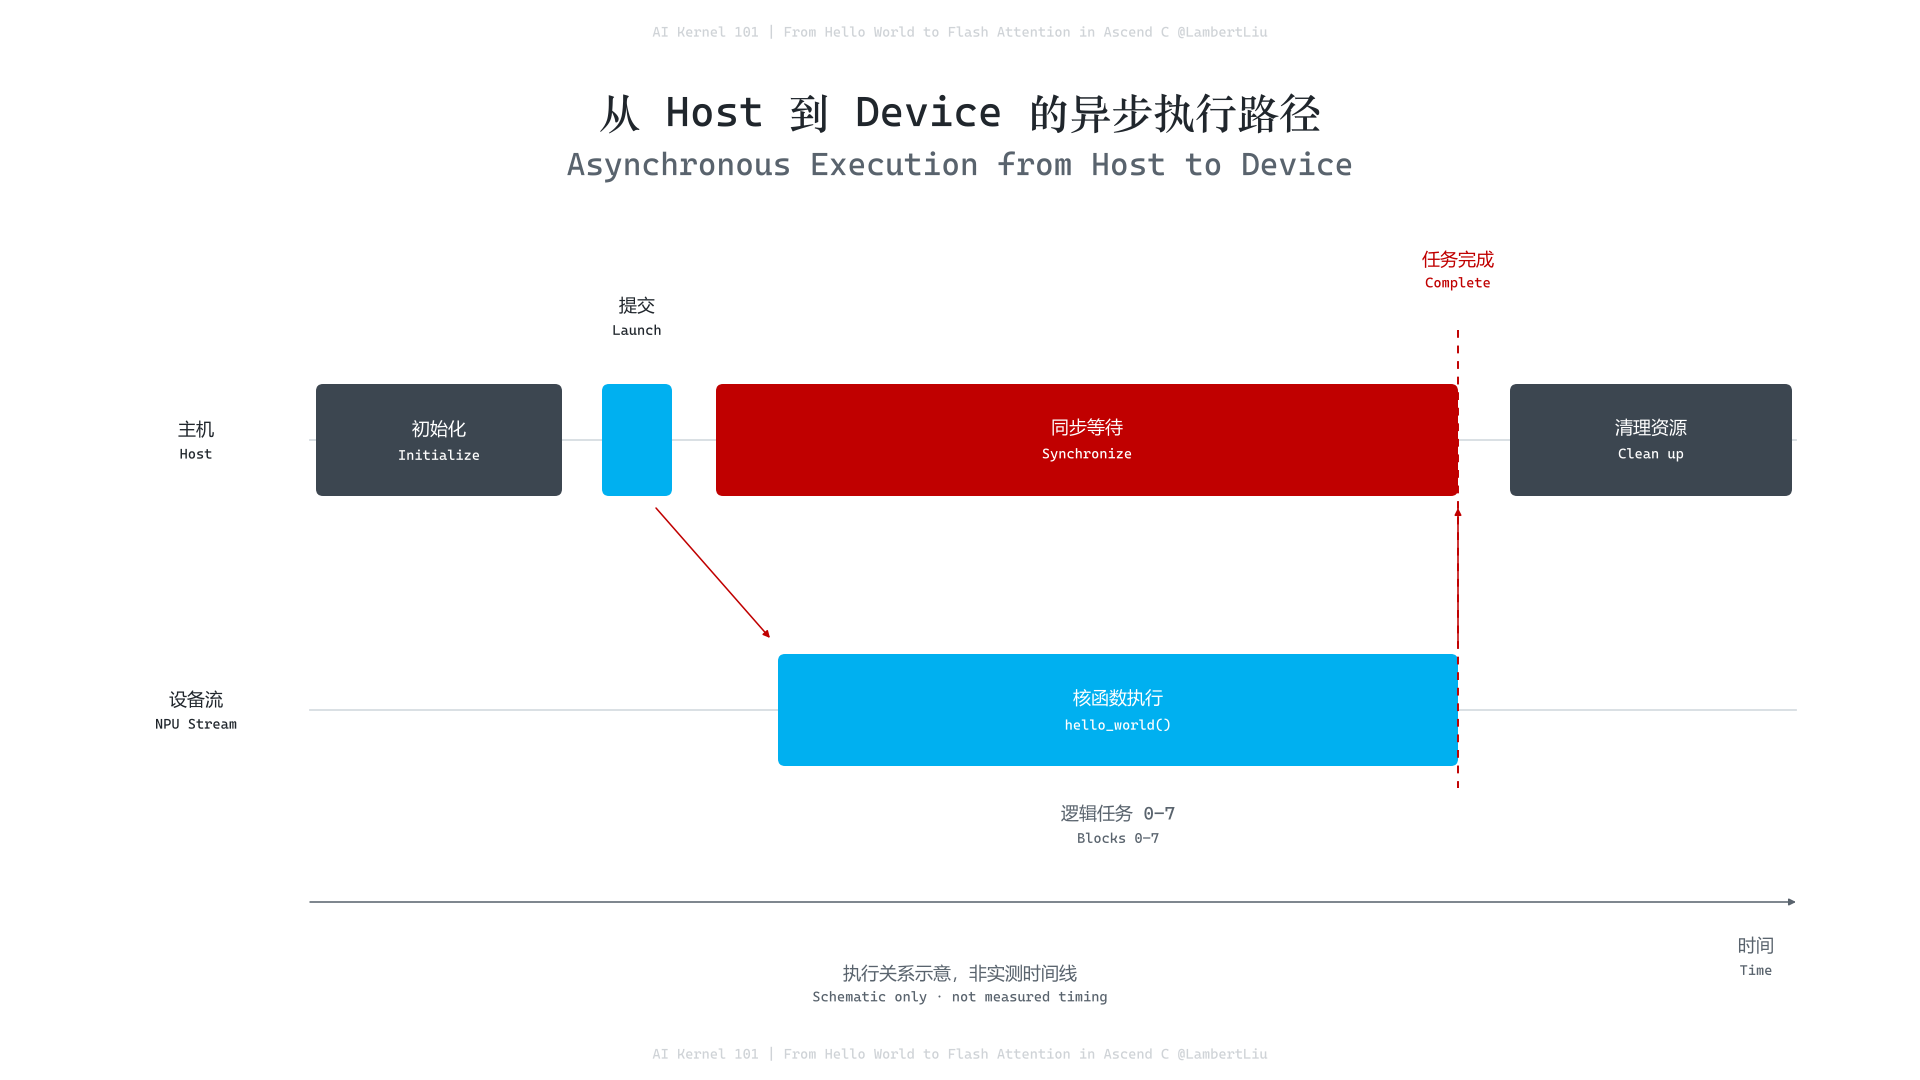
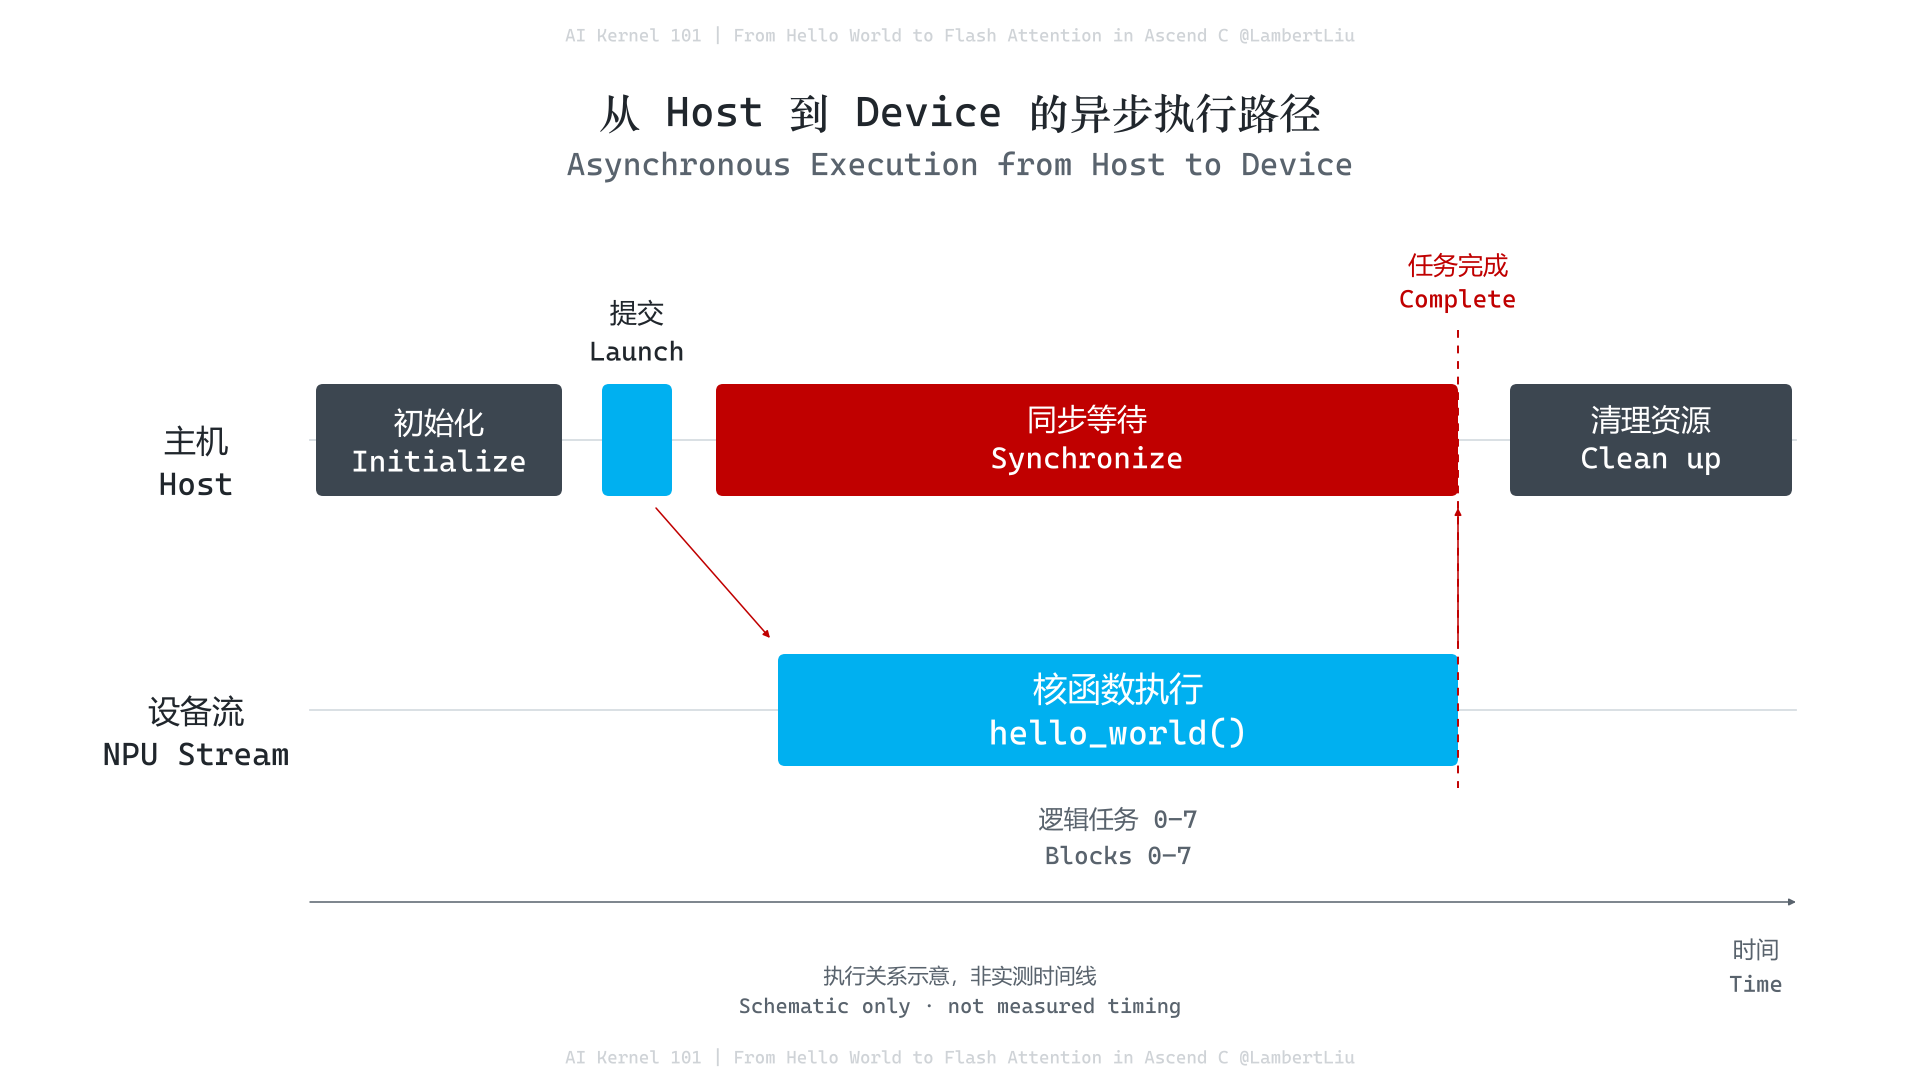
恢复正文插图标注与水印字号，保留标题布局

diff --git a/docs/assets/figures/src/01-fig3-run-paths.py b/docs/assets/figures/src/01-fig3-run-paths.py
@@ -4,7 +4,7 @@ from theme import (canvas, bilingual, bilingual_in_box, box, arrow, save, tint,
 from matplotlib.patches import Polygon
 
 
-def chip(ax, cx, cy, size, zh, en):
+def chip(ax, cx, cy, size, zh, en, label_size=23):
     """Symbolic package, with no physical pin or core-count assertion."""
     x, y = cx - size / 2, cy - size / 2
     for i in range(6):
@@ -16,7 +16,7 @@ def chip(ax, cx, cy, size, zh, en):
             ax.plot(xs, ys, color=CHARCOAL, lw=3, solid_capstyle="butt")
     box(ax, x, y, size, size, SKY, SKY, radius=7, lw=0)
     box(ax, x + 12, y + 12, size - 24, size - 24, SKY, tint(SKY, 0.6), radius=4, lw=1)
-    bilingual_in_box(ax, x, y, size, size, zh, en, "white")
+    bilingual_in_box(ax, x, y, size, size, zh, en, "white", size=label_size)
 
 
 def domain(ax, x, width):
@@ -36,14 +36,14 @@ def main():
     ax.plot([984, 1000, 984], [272, 288, 304], color="white", lw=2.2)
     ax.plot([968, 952], [266, 312], color="white", lw=2.2)
     ax.plot([918, 968], [332, 332], color=tint(RED, 0.8), lw=1.6)
-    bilingual(ax, 1068, 256, "算子源码", "Ascend C source", ha="left")
+    bilingual(ax, 1068, 256, "算子源码", "Ascend C source", ha="left", size=28)
     ax.plot([960, 960], [354, 388], color=INK, lw=1.5)
     ax.plot([400, 1520], [388, 388], color=INK, lw=1.5)
     for cx, mode in [(400, "CPU"), (960, "SIM"), (1520, "NPU")]:
         arrow(ax, [(cx, 388), (cx, 480)], INK)
-        bilingual(ax, cx + 32, 404, f"{mode} 编译", f"{mode} build", GRAY, ha="left")
+        bilingual(ax, cx + 32, 404, f"{mode} 编译", f"{mode} build", GRAY, ha="left", size=21)
         box(ax, cx - 168, 492, 336, 90, "#FAFAFA", RED, radius=7, lw=2 * 72 / DPI)
-        bilingual_in_box(ax, cx - 168, 492, 336, 90, "可执行程序 demo", "Executable demo")
+        bilingual_in_box(ax, cx - 168, 492, 336, 90, "可执行程序 demo", "Executable demo", size=23)
         arrow(ax, [(cx, 586), (cx, 648)], INK)
     for left in (138, 698, 1258):
         domain(ax, left, 524)
@@ -53,7 +53,7 @@ def main():
     box(ax, 834, 662, 252, 110, "white", "white", radius=4, lw=0)
     target = box(ax, 878, 674, 164, 88, BLUE_LIGHT, SKY, radius=5, lw=1.3)
     target.set_linestyle((0, (3, 3)))
-    bilingual_in_box(ax, 878, 674, 164, 88, "目标模型", "NPU model", SKY)
+    bilingual_in_box(ax, 878, 674, 164, 88, "目标模型", "NPU model", SKY, size=21)
     box(ax, 950, 790, 20, 18, CHARCOAL, CHARCOAL, radius=0, lw=0)
     box(ax, 908, 808, 104, 5, CHARCOAL, CHARCOAL, radius=2, lw=0)
     # Generic accelerator card, not a particular product's layout.
@@ -62,20 +62,20 @@ def main():
     for i in range(9):
         ax.plot([1418 + i * 20, 1418 + i * 20], [822, 836], color=GRAY, lw=3,
                 solid_capstyle="butt")
-    chip(ax, 1520, 752, 108, "加速器", "NPU")
+    chip(ax, 1520, 752, 108, "加速器", "NPU", label_size=20)
     for xx in (1400, 1626):
         for yy in (700, 730, 794):
             box(ax, xx, yy, 14, 7, "#AAB2B9", "#AAB2B9", radius=2, lw=0)
     for cx, zh, en in [(400, "CPU 模式", "CPU mode"), (1520, "真机模式", "NPU mode")]:
-        bilingual(ax, cx, 864, zh, en)
+        bilingual(ax, cx, 864, zh, en, size=25)
     bilingual(ax, 960, 826, "在主机 CPU 上运行仿真模型",
-              "Simulation model on host CPU")
-    bilingual(ax, 960, 894, "无需本地物理 NPU", "No local NPU required", GRAY)
+              "Simulation model on host CPU", size=20)
+    bilingual(ax, 960, 894, "无需本地物理 NPU", "No local NPU required", GRAY, size=18)
     scopes = [(400, "CPU 域功能调试", "CPU-domain functional debugging"),
               (960, "目标模型中的功能与性能观察", "Model function / performance"),
               (1520, "真实设备功能验证与性能测量", "Hardware checks / performance tests")]
     for cx, zh, en in scopes:
-        bilingual(ax, cx, 968, zh, en)
+        bilingual(ax, cx, 968, zh, en, size=21)
     save(fig, __file__)
 
 

diff --git a/docs/assets/figures/src/01-fig1-cpu-npu-dataflow.py b/docs/assets/figures/src/01-fig1-cpu-npu-dataflow.py
@@ -7,29 +7,29 @@ def ai_core(ax, x, y, index):
     """Vector and Cube are units of a coupled core; omitted blocks are not absent."""
     frame = box(ax, x, y, 232, 168, "white", LINE, radius=9, lw=1.4)
     frame.set_gid(f"coupled-ai-core-{index}")
-    bilingual_in_box(ax, x, y + 5, 232, 56, f"计算核 {index}", f"AI Core {index}", line_gap=8)
+    bilingual_in_box(ax, x, y + 5, 232, 56, f"计算核 {index}", f"AI Core {index}", line_gap=8, size=20)
     for offset, zh, en, color in [(12, "向量单元", "Vector", SKY),
                                   (123, "矩阵单元", "Cube", RED)]:
         unit = box(ax, x + offset, y + 72, 97, 76, color, color, radius=5, lw=0)
         unit.set_gid(f"core-{index}-{en.lower()}-unit")
-        bilingual_in_box(ax, x + offset, y + 72, 97, 76, zh, en, "white")
+        bilingual_in_box(ax, x + offset, y + 72, 97, 76, zh, en, "white", size=18)
 
 
 def main():
     fig, ax = canvas("CPU 与昇腾 NPU 之间的数据流", "CPU–Ascend NPU Data Flow over PCIe")
     box(ax, 88, 246, 412, 668, "white", LINE, radius=16, lw=1.5)
     box(ax, 782, 246, 1066, 668, "white", LINE, radius=16, lw=1.5)
-    bilingual(ax, 294, 280, "主机", "Host")
-    bilingual(ax, 1316, 280, "昇腾处理器", "Ascend NPU")
+    bilingual(ax, 294, 280, "主机", "Host", size=30)
+    bilingual(ax, 1316, 280, "昇腾处理器", "Ascend NPU", size=30)
     box(ax, 130, 386, 328, 88, "#FAFAFA", RED, radius=7, lw=1.5)
-    bilingual_in_box(ax, 130, 386, 328, 88, "主机内存", "Host memory")
+    bilingual_in_box(ax, 130, 386, 328, 88, "主机内存", "Host memory", size=23)
     box(ax, 820, 386, 990, 88, "#FAFAFA", RED, radius=7, lw=1.5)
-    bilingual_in_box(ax, 820, 386, 990, 88, "设备内存", "Device memory / GM")
+    bilingual_in_box(ax, 820, 386, 990, 88, "设备内存", "Device memory / GM", size=25)
     # Copies connect memory spaces; the dashed path submits control work.
-    bilingual(ax, 638, 286, "总线连接", "PCIe")
+    bilingual(ax, 638, 286, "总线连接", "PCIe", size=25)
     arrow(ax, [(460, 414), (818, 414)], INK)
     arrow(ax, [(818, 450), (460, 450)], INK)
-    bilingual(ax, 638, 496, "双向数据传输", "Bidirectional data", GRAY)
+    bilingual(ax, 638, 496, "双向数据传输", "Bidirectional data", GRAY, size=21)
     for i in range(7):
         p = 215 + i * 27
         ax.plot([p, p], [588, 604], color=GRAY, lw=3)
@@ -39,10 +39,10 @@ def main():
         ax.plot([182, 198], [p, p], color=GRAY, lw=3)
         ax.plot([392, 408], [p, p], color=GRAY, lw=3)
     box(ax, 198, 604, 194, 180, CHARCOAL, CHARCOAL, radius=9, lw=0)
-    bilingual_in_box(ax, 198, 604, 194, 180, "主机处理器", "CPU", "white")
+    bilingual_in_box(ax, 198, 604, 194, 180, "主机处理器", "CPU", "white", size=27)
     arrow(ax, [(270, 488), (270, 580)], INK)
     arrow(ax, [(318, 580), (318, 488)], INK)
-    bilingual(ax, 294, 818, "运行控制程序", "Host program")
+    bilingual(ax, 294, 818, "运行控制程序", "Host program", size=23)
     # Abstract memory-access connectors, not a physical on-chip interconnect.
     ax.plot([1316, 1316], [476, 506], color=GRAY, lw=1.2)
     ax.plot([800, 1692], [506, 506], color=GRAY, lw=1.2)
@@ -54,9 +54,9 @@ def main():
     for index in range(8):
         ai_core(ax, 820 + 252 * (index % 4), 530 + 190 * (index // 4), index)
     arrow(ax, [(410, 746), (544, 746), (544, 862), (780, 862)], GRAY, dashed=True)
-    bilingual(ax, 638, 770, "任务提交", "Kernel launch", GRAY)
+    bilingual(ax, 638, 770, "任务提交", "Kernel launch", GRAY, size=20)
     bilingual(ax, 960, 958, "8 核耦合架构示意，非实际设备核数或芯片布局",
-              "8 coupled cores for illustration, not a product floorplan", GRAY)
+              "8 coupled cores for illustration, not a product floorplan", GRAY, size=20)
     save(fig, __file__)
 
 

diff --git a/docs/assets/figures/src/theme.py b/docs/assets/figures/src/theme.py
@@ -15,7 +15,8 @@ from matplotlib.textpath import TextPath
 
 WIDTH, HEIGHT, DPI = 1920, 1080, 100
 TITLE_SIZE, TITLE_EN_SIZE = 42, 32
-BODY_SIZE, BODY_EN_SIZE = 18, 14
+BODY_SIZE, BODY_EN_SIZE = 28, 28
+WATERMARK_SIZE = 18
 WATERMARK = "AI Kernel 101 | From Hello World to Flash Attention in Ascend C @LambertLiu"
 WATERMARK_COLOR = "#CFD3D7"
 # Sampled from the two flat swatches in the author's color.png.
@@ -64,7 +65,7 @@ def canvas(title_zh, title_en):
     text(ax, WIDTH / 2, 78, title_zh, TITLE_SIZE, ha="center", role="title")
     text(ax, WIDTH / 2, 140, title_en, TITLE_EN_SIZE, GRAY, ha="center")
     for y in (20, HEIGHT - 38):
-        text(ax, WIDTH / 2, y, WATERMARK, BODY_EN_SIZE, WATERMARK_COLOR, ha="center")
+        text(ax, WIDTH / 2, y, WATERMARK, WATERMARK_SIZE, WATERMARK_COLOR, ha="center")
     return fig, ax
 
 
@@ -74,21 +75,24 @@ def text(ax, x, y, value, size=None, color=INK, weight="normal", ha="left", va="
     chinese = re.search(r"[\u2e80-\u9fff\uf900-\ufaff\uff00-\uffef]", value)
     if size is None:
         size = BODY_SIZE if chinese else BODY_EN_SIZE
+    size = round(size)
     if chinese:
         family.append(fonts["TITLE_CHINESE" if role == "title" else "CHINESE"])
     return ax.text(x, y, value, fontsize=size * 72 / DPI, color=color,
                    fontfamily=family, fontweight=weight, ha=ha, va=va, linespacing=1.45)
 
 
-def bilingual(ax, x, y, zh, en, color=INK, ha="center", gap=28):
-    """Chinese 18 px above English 14 px, both measured at output resolution."""
-    return (text(ax, x, y, zh, BODY_SIZE, color, ha=ha),
-            text(ax, x, y + gap, en, BODY_EN_SIZE, color, ha=ha))
+def bilingual(ax, x, y, zh, en, color=INK, ha="center", gap=None, *, size=None):
+    """Restore per-label sizes; paired Chinese/English lines share an integer size."""
+    sizes = (BODY_SIZE, BODY_EN_SIZE) if size is None else (round(size), round(size))
+    gap = max(sizes) + 11 if gap is None else gap
+    return (text(ax, x, y, zh, sizes[0], color, ha=ha),
+            text(ax, x, y + gap, en, sizes[1], color, ha=ha))
 
 
-def bilingual_in_box(ax, x, y, w, h, zh, en, color=INK, line_gap=12):
+def bilingual_in_box(ax, x, y, w, h, zh, en, color=INK, line_gap=12, *, size=None):
     """Center the two lines as one group, using glyph ink bounds, not line leading."""
-    sizes = (BODY_SIZE, BODY_EN_SIZE)
+    sizes = (BODY_SIZE, BODY_EN_SIZE) if size is None else (round(size), round(size))
     labels = [text(ax, x + w / 2, 0, value, size, color, ha="center", va="baseline")
               for value, size in zip((zh, en), sizes)]
     bounds = [TextPath((0, 0), label.get_text(), size=size,

diff --git a/docs/assets/figures/src/01-fig2-host-kernel.py b/docs/assets/figures/src/01-fig2-host-kernel.py
@@ -7,28 +7,28 @@ def main():
     fig, ax = canvas("从 Host 到 Device 的异步执行路径", "Asynchronous Execution from Host to Device")
     for y in (440, 710):
         ax.plot([310, 1796], [y, y], color=LINE, lw=1.3, zorder=0)
-    bilingual(ax, 196, 414, "主机", "Host")
-    bilingual(ax, 196, 684, "设备流", "NPU Stream")
+    bilingual(ax, 196, 414, "主机", "Host", size=32)
+    bilingual(ax, 196, 684, "设备流", "NPU Stream", size=32)
     box(ax, 316, 384, 246, 112, CHARCOAL, CHARCOAL, radius=7, lw=0)
-    bilingual_in_box(ax, 316, 384, 246, 112, "初始化", "Initialize", "white")
+    bilingual_in_box(ax, 316, 384, 246, 112, "初始化", "Initialize", "white", size=30)
     box(ax, 602, 384, 70, 112, SKY, SKY, radius=7, lw=0)
-    bilingual(ax, 637, 290, "提交", "Launch")
+    bilingual(ax, 637, 290, "提交", "Launch", size=27)
     arrow(ax, [(656, 508), (770, 638)], RED)
     # Immediate synchronization: no invented CPU work between launch and wait.
     box(ax, 716, 384, 742, 112, RED, RED, radius=7, lw=0)
-    bilingual_in_box(ax, 716, 384, 742, 112, "同步等待", "Synchronize", "white")
+    bilingual_in_box(ax, 716, 384, 742, 112, "同步等待", "Synchronize", "white", size=30)
     box(ax, 1510, 384, 282, 112, CHARCOAL, CHARCOAL, radius=7, lw=0)
-    bilingual_in_box(ax, 1510, 384, 282, 112, "清理资源", "Clean up", "white")
+    bilingual_in_box(ax, 1510, 384, 282, 112, "清理资源", "Clean up", "white", size=30)
     box(ax, 778, 654, 680, 112, SKY, SKY, radius=7, lw=0)
-    bilingual_in_box(ax, 778, 654, 680, 112, "核函数执行", "hello_world()", "white")
-    bilingual(ax, 1118, 798, "逻辑任务 0–7", "Blocks 0–7", GRAY)
+    bilingual_in_box(ax, 778, 654, 680, 112, "核函数执行", "hello_world()", "white", size=34)
+    bilingual(ax, 1118, 798, "逻辑任务 0–7", "Blocks 0–7", GRAY, size=25)
     ax.plot([1458, 1458], [330, 788], color=RED, lw=1.4, linestyle=(0, (4, 4)))
-    bilingual(ax, 1458, 244, "任务完成", "Complete", RED)
+    bilingual(ax, 1458, 244, "任务完成", "Complete", RED, size=25)
     arrow(ax, [(1458, 644), (1458, 508)], RED)
     arrow(ax, [(310, 902), (1796, 902)], GRAY)
-    bilingual(ax, 1756, 930, "时间", "Time", GRAY)
+    bilingual(ax, 1756, 930, "时间", "Time", GRAY, size=23)
     bilingual(ax, 960, 958, "执行关系示意，非实测时间线",
-              "Schematic only · not measured timing", GRAY)
+              "Schematic only · not measured timing", GRAY, size=21)
     save(fig, __file__)
 
 

diff --git a/docs/assets/README.md b/docs/assets/README.md
@@ -25,7 +25,7 @@ docs/assets/
 
 理论模型、实测结果、概念示意分别在图题或注释中明写；尚待测量的曲线不伪装为实测。图表标注篇次／主题、变量与单位、输入和模式、统计量及必要边界，术语与正文一致。
 
-插图以直观图形为主，使用纯色块、细线与统一间距，解释段落留在正文，不做文字卡片式版面。标题中英两行：中文在上 42 px，英文在下 32 px。中文标题使用华文中宋，中文正文与标注使用微软雅黑，所有英文与数字使用 Cascadia Code。正文与标注中文在上 18 px、英文在下 14 px；框内中英文作为一个整体垂直居中。上下页眉页脚各居中放置浅灰色 `AI Kernel 101 | From Hello World to Flash Attention in Ascend C @LambertLiu` 水印，字号 14 px。以上字号均为最终输出像素中的整数值。实际字体版本与授权记录见[绘图工作流](figures/README.md)。导出前检查中文、上下标、公式、字号和灰度可辨性，避免用颜色作为唯一语义。
+插图以直观图形为主，使用纯色块、细线与统一间距，解释段落留在正文，不做文字卡片式版面。标题中英两行：中文在上 42 px，英文在下 32 px。中文标题使用华文中宋，中文正文与标注使用微软雅黑，所有英文与数字使用 Cascadia Code。正文与标注按上一版层级恢复为 18–34 px，中文在上、英文在下，每组中英字号相同且取整数；框内中英文作为一个整体垂直居中。上下页眉页脚各居中放置浅灰色 `AI Kernel 101 | From Hello World to Flash Attention in Ascend C @LambertLiu` 水印，字号 18 px。以上字号均为最终输出像素中的整数值。实际字体版本与授权记录见[绘图工作流](figures/README.md)。导出前检查中文、上下标、公式、字号和灰度可辨性，避免用颜色作为唯一语义。
 
 | 角色 | 建议视觉约定 |
 | --- | --- |
